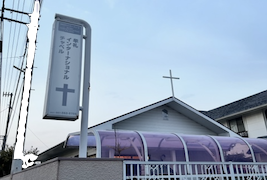
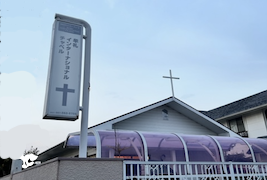
Touchup  mure card image

Changed region(s): [[0.0, 0.0, 0.1798, 0.8889]]

diff --git a/ja/index.html b/ja/index.html
@@ -288,7 +288,7 @@
 
       <img
         class="card-img-top"
-        src="assets/img/mure-chapel.png"
+        src="assets/img/mure-chapel-sm-card.png"
         alt="牟礼インターナショナルチャペル"
       />
       <div class="card-body d-flex flex-column">

diff --git a/index.html b/index.html
@@ -288,7 +288,7 @@
 
       <img
         class="card-img-top"
-        src="assets/img/mure-chapel.png"
+        src="assets/img/mure-chapel-sm-card.png"
         alt="Mure International Chapel"
       />
       <div class="card-body d-flex flex-column">
